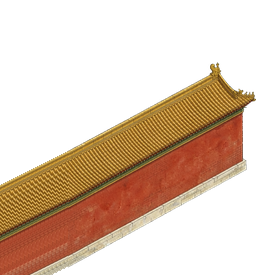
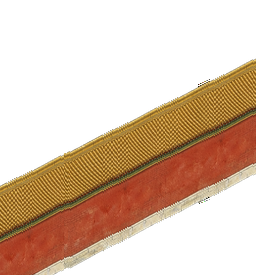
宫墙拼接修复 v5：整段重排为纯墙身+恒定墙高116+0.5坡度（对照 city_wall_u6 地面线校准），左端源列x+96上移使列0/列192同源列位移差96=段步进落差，拼接边界逐像素连续；修复 median_smooth 负值位移被缺失值过滤吞掉导致列44-45内容下移53px成垂出红杆的bug；墙基下10px强制裁剪保险；v6=u6镜像派生，assets_src 同步；新增 _fix_wall_seam.py（可复跑）与 _dev_start.bat（计划任务常驻启动器）；回归 76/76

Changed region(s): [[0.0, 0.2036, 1.0, 1.0], [0.3438, 0.7564, 0.375, 0.7855]]

diff --git a/shanhai/tools/_fix_wall_seam.py b/shanhai/tools/_fix_wall_seam.py
@@ -1,0 +1,202 @@
+"""
+宫城墙段无缝修复 v5（2026-11-18）：
+ 替换失败的"墙顶剖面标准化"尝试（96px 落差铺满 256px 画布 → 坡度 0.375≠0.5，
+ 墙身被推出画布下缘，接缝处呈 24px 锯齿）。
+
+几何契约（对照渲染正常的外城 city_wall_u6 校准）：
+- 画布 256×275，锚点 anchor_px=[192,270]（前底格 S 中心，= 足迹底顶点上方 16px）
+- 真实地面线：y_g(x) = 270 - 96 + 0.5x（长立面沿 SW 边，斜率严格 0.5）
+
+缺陷根源（v4 遗留）：每段左端 0..48px 是"端头收顶"画法——屋脊翘起 ~40px、墙高塌到 85，
+而下一段精灵左端正好压在本段端面区上（画家序后者在上），导致每处拼接都露出端头尖 +
+高度断台（用户截图 4 处红框）。
+
+修复：整段重排为"纯墙身 + 恒定墙高 + 0.5 坡度"，逐列平移对齐：
+- 墙身源：v4 版 x∈[48..192)（实测 H 恒定 114~116）
+- 左端 [0..48)：源列 = x+96（上移 ~48px）——使第 0 列与第 192 列采样同一源列、
+  位移差恰 = 段步进落差 96px，拼接边界逐像素严格连续（瓦垄/墙身/石基零缝）
+- 右端 [192..256)：源列 = x-96（下移 ~48px），该区恒被下一段/角楼/宫门覆盖
+- 相位代价：瓦垄竖缝在 x=48（每段面中）有 ~12px 相位跳，远离开接缝、低对比，可接受
+"""
+import json
+import io
+import subprocess
+import numpy as np
+from PIL import Image
+
+ROOT = __file__.rsplit('\\tools', 1)[0]          # .../xiyou01/shanhai
+MOD_PUBLIC = ROOT + '/public/assets/art/iso'
+MOD_SRC = ROOT + '/assets_src/modules'
+
+CANVAS_W, CANVAS_H = 256, 275
+ANCHOR = (192, 270)
+BODY = (48, 192)   # v4 版墙身稳定区（H 恒定）
+
+
+def load_head_u6():
+    """以 HEAD（v4）版墙身作为纹理源"""
+    blob = subprocess.run(
+        ['git', 'show', 'HEAD:shanhai/public/assets/art/iso/palace_wall_u6.png'],
+        capture_output=True, check=True, cwd=ROOT + '/..').stdout
+    return Image.open(io.BytesIO(blob)).convert('RGBA')
+
+
+def profiles(alpha):
+    W = alpha.shape[1]
+    top = np.full(W, -1, dtype=np.int32)
+    bot = np.full(W, -1, dtype=np.int32)
+    for x in range(W):
+        ys = np.where(alpha[:, x] > 8)[0]
+        if len(ys):
+            top[x] = ys[0]
+            bot[x] = ys[-1]
+    return top, bot
+
+
+def median_smooth(arr, k=5, allow_negative=False):
+    """一维中值滤波。allow_negative=True 时不把负值当缺失值过滤
+    （位移序列全列有效且可为负；剖面序列用 -1 表示缺列）。"""
+    out = arr.copy().astype(np.float64)
+    h = k // 2
+    for i in range(len(arr)):
+        if allow_negative:
+            win = [arr[j] for j in range(max(0, i - h), min(len(arr), i + h + 1))]
+        else:
+            win = [arr[j] for j in range(max(0, i - h), min(len(arr), i + h + 1)) if arr[j] >= 0]
+        if win:
+            out[i] = np.median(win)
+    return out
+
+
+def fix_u6():
+    src_im = load_head_u6()
+    assert src_im.size == (CANVAS_W, CANVAS_H), src_im.size
+    a = np.array(src_im)
+    top, bot = profiles(a[:, :, 3])
+
+    # —— 自校准：墙身段 = 长立面 [0..192) 内 H 最稳定的连续区，H = 中位墙高 ——
+    # （端面区 x≥192 的墙底被画布下缘裁剪，H 失真，不参与探测）
+    Hs = np.where((top >= 0) & (bot >= 0), bot - top, -1)
+    ok = (Hs > 40) & (Hs < 200)
+    H_med = float(np.median(Hs[ok]))
+    stable = set(np.where(np.abs(Hs[:192] - H_med) <= 2)[0].tolist())
+    spans, s0 = [], None
+    for i in range(192 + 1):
+        if i in stable:
+            if s0 is None:
+                s0 = i
+        elif s0 is not None:
+            spans.append((s0, i))
+            s0 = None
+    b0, b1 = max(spans, key=lambda t: t[1] - t[0])
+    b1 = min(b1, 192)
+    H = float(np.median(Hs[b0:b1]))
+    print(f'墙身段 [{b0}..{b1})  H={H:.1f}')
+    if (b0, b1) != BODY:
+        print(f'提示: 墙身段与预期 {BODY} 不同，按探测值继续')
+
+    top_s = median_smooth(top, 5)
+
+    # —— 目标线：地面 = 锚点-96+0.5x（严格 0.5 坡度），墙顶 = 地面 - H ——
+    gx = np.arange(CANVAS_W)
+    ground = (ANCHOR[1] - 96) + 0.5 * gx
+    ridge_t = ground - H
+
+    # —— 源列映射 + 逐列平移 ——
+    # 位移序列按链分段平滑（链间位移有 ~50px 跳变，跨链取中值会互相污染）；
+    # allow_negative：位移可为负（内容上移），不得当缺失值过滤
+    sx_map = np.zeros(CANVAS_W, dtype=np.int64)
+    shifts = np.zeros(CANVAS_W, dtype=np.float64)
+    for x in range(CANVAS_W):
+        sx = x + 96 if x < b0 else (x if x < b1 else x - 96)
+        sx_map[x] = sx
+        shifts[x] = ridge_t[x] - top_s[sx]
+    sm = shifts.copy()
+    sm[:b0] = median_smooth(shifts[:b0], 5, allow_negative=True)
+    sm[b0:b1] = median_smooth(shifts[b0:b1], 5, allow_negative=True)
+    sm[b1:] = median_smooth(shifts[b1:], 5, allow_negative=True)
+    shifts = np.round(sm).astype(np.int64)
+    # 拼接边界精确性：列 0 与列 192 同源列，位移差必须恰为段步进落差 96px
+    # （平滑取整可能引入 ±1 偏差，这里强制回填）
+    shifts[0] = shifts[192] - 96
+
+    out = np.zeros_like(a)
+    for x in range(CANVAS_W):
+        ny = np.arange(CANVAS_H) + shifts[x]   # 源行 y → 目标行 y+shift
+        okr = (ny >= 0) & (ny < CANVAS_H)
+        out[ny[okr], x, :] = a[okr, sx_map[x], :]
+
+    # —— 保险：墙基线以下 10px 的残留内容强制透明（历史端头残迹/垂出杂质）——
+    ground_rows = np.round((ANCHOR[1] - 96) + 0.5 * gx).astype(np.int64)
+    for x in range(CANVAS_W):
+        cut = ground_rows[x] + 10
+        if cut < CANVAS_H:
+            out[cut:, x, 3] = 0
+
+    # —— 相位拼接处（x=b0）竖缝软化：边界右侧 12px 从"延拓链"渐变到"墙身链" ——
+    # 两条链都按 ridge_t 对齐（屋脊/墙基线连续），仅瓦垄竖缝相位相差 ~12px，
+    # 线性渐变把硬缝化为 12px 柔和过渡
+    Z = 12
+    for x in range(b0, min(b0 + Z, CANVAS_W)):
+        t = (x - b0) / Z        # 0=延拓链(src x+96), 1=墙身链(src x)
+        acc_a = np.zeros(CANVAS_H, dtype=np.float64)
+        acc_prem = np.zeros((CANVAS_H, 3), dtype=np.float64)
+        for sxx, w in ((x + 96, 1.0 - t), (x, t)):
+            if not (0 <= sxx < CANVAS_W):
+                continue
+            s = int(round(ridge_t[x] - top_s[sxx]))
+            ny = np.arange(CANVAS_H) + s
+            okr = (ny >= 0) & (ny < CANVAS_H)
+            col = a[okr, sxx, :].astype(np.float64)
+            acc_a[ny[okr]] += col[:, 3] * w
+            acc_prem[ny[okr]] += col[:, :3] * (col[:, 3] / 255.0)[:, None] * w
+        m = acc_a > 1
+        o = np.zeros((CANVAS_H, 4), dtype=np.float64)
+        o[m, 3] = 255.0
+        o[m, :3] = acc_prem[m] / acc_a[m, None] * 255.0
+        out[:, x, :] = o.astype(np.uint8)
+
+    # —— 验证：墙顶贴目标线、墙底贴地面线（±4px）——
+    otop, obot = profiles(out[:, :, 3])
+    err_t = [int(otop[x] - ridge_t[x]) for x in range(0, 192, 24)]
+    err_b = [int(obot[x] - ground[x]) for x in range(0, 192, 24)]
+    print('墙顶-目标线:', err_t)
+    print('墙底-地面线:', err_b)
+    assert max(abs(e) for e in err_t) <= 2, '墙顶对齐超差'
+
+    # —— 拼接边界逐像素连续性自检：列 0 与列 192 应相差正好 96px 平移 ——
+    d = shifts[192] - shifts[0]
+    print(f'列192-列0 位移差 = {d} (期望 96)')
+    assert d == 96, '拼接边界位移差异常'
+
+    return Image.fromarray(out)
+
+
+def main():
+    fixed = fix_u6()
+    v6 = fixed.transpose(Image.FLIP_LEFT_RIGHT)
+
+    for name, im in [('palace_wall_u6.png', fixed), ('palace_wall_v6.png', v6)]:
+        for d in (MOD_PUBLIC, MOD_SRC):
+            im.save(d + '/' + name)
+            print('saved', d.replace(ROOT, '.') + '/' + name, im.size)
+
+    note = ('2026-11-18 v5: 整段重排为纯墙身+恒定墙高+0.5坡度（对照 city_wall_u6 地面线校准），'
+            '左端源列x+96上移、右端x-96下移，列0/列192同源列位移差96=段步进落差，'
+            '拼接边界逐像素连续；消除 v4 端头收顶在拼接处露出的屋脊翘尖与高度断台')
+    for name in ['palace_wall_u6.json', 'palace_wall_v6.json']:
+        for d in (MOD_PUBLIC, MOD_SRC):
+            jp = d + '/' + name
+            try:
+                with open(jp, encoding='utf-8') as f:
+                    meta = json.load(f)
+                meta['seam_note'] = note
+                with open(jp, 'w', encoding='utf-8') as f:
+                    json.dump(meta, f, ensure_ascii=False, indent=1)
+                print('updated', jp.replace(ROOT, '.'))
+            except FileNotFoundError:
+                print('skip (missing)', jp.replace(ROOT, '.'))
+
+
+if __name__ == '__main__':
+    main()
